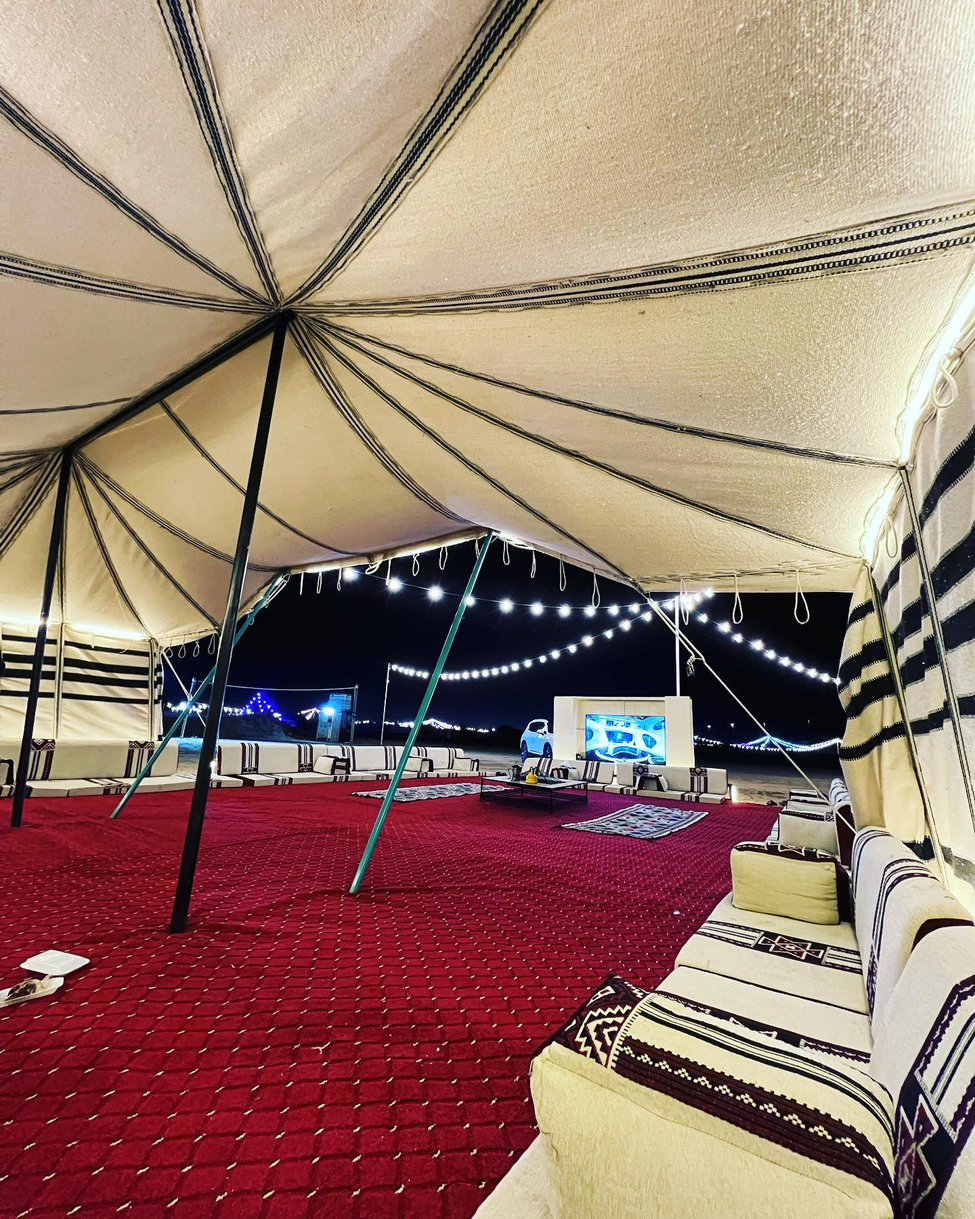
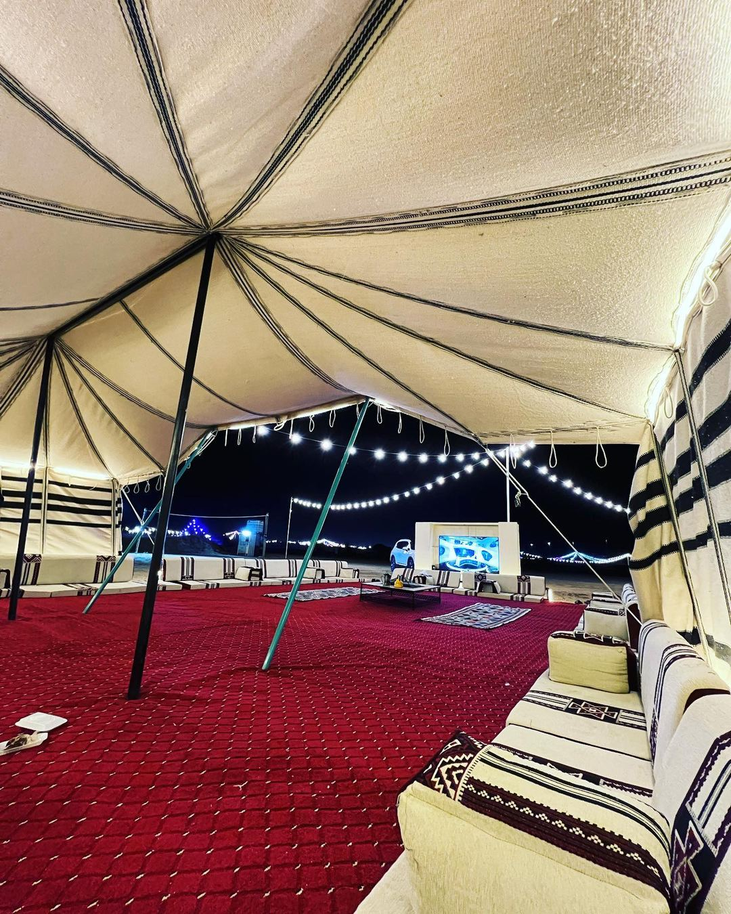
perf: lighter home page so slow connections stay responsive
On a ~2 Mbps line the home page kept the connection busy for 20s+, so a
click to /dashboard/login queued behind image downloads.

- Recompress the heaviest home-page photos (parallax photo 891KB->169KB,
  About photo 453KB->321KB, two service photos ~25% smaller).
- Lazy-load the parallax, About and Experiences images so they download
  only when scrolled near, not on first paint.

diff --git a/src/components/About.tsx b/src/components/About.tsx
@@ -53,6 +53,8 @@ export default function About() {
             <div className="relative aspect-[4/5] sm:aspect-[4/4] overflow-hidden rounded-2xl shadow-2xl group">
               <img
                 src="/instagram/C0_ANXSMVj2.jpg"
+                loading="lazy"
+                decoding="async"
                 alt={isAr ? "المجلس العربي داخل خيمة الغدير" : "Traditional Majlis Inside Alghdeer Tent"}
                 className="w-full h-full object-cover group-hover:scale-105 transition-transform duration-1000"
               />

diff --git a/src/components/Experiences.tsx b/src/components/Experiences.tsx
@@ -90,6 +90,8 @@ export default function Experiences() {
                 <img
                   src={exp.image}
                   alt={t(exp.title)}
+                  loading="lazy"
+                  decoding="async"
                   className={`absolute inset-0 w-full h-full object-cover ${exp.objectPos} opacity-90 group-hover:opacity-100 group-hover:scale-105 transition-all duration-1000`}
                 />
                 {isHovered && (

diff --git a/src/components/FullImage.tsx b/src/components/FullImage.tsx
@@ -17,6 +17,8 @@ export default function FullImage() {
       <motion.div style={{ scale }} className="absolute inset-0">
         <img
           src="/nano/nb_bohemian_walkway_cinematic.jpg"
+          loading="lazy"
+          decoding="async"
           alt="الممشى البوهيمي في مخيمات الغدير"
           className="w-full h-full object-cover object-center"
         />
